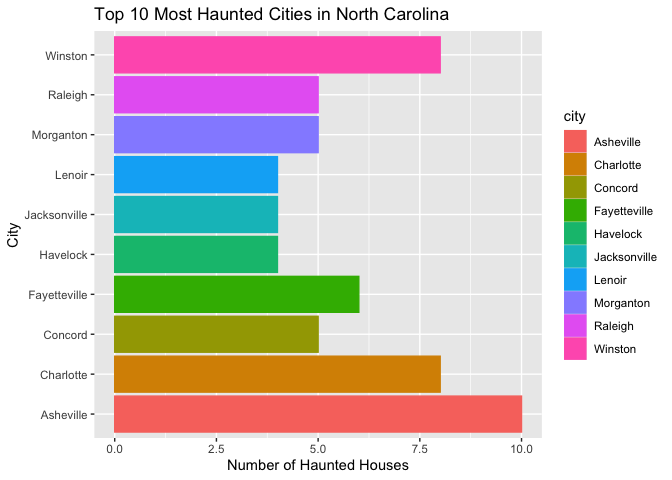
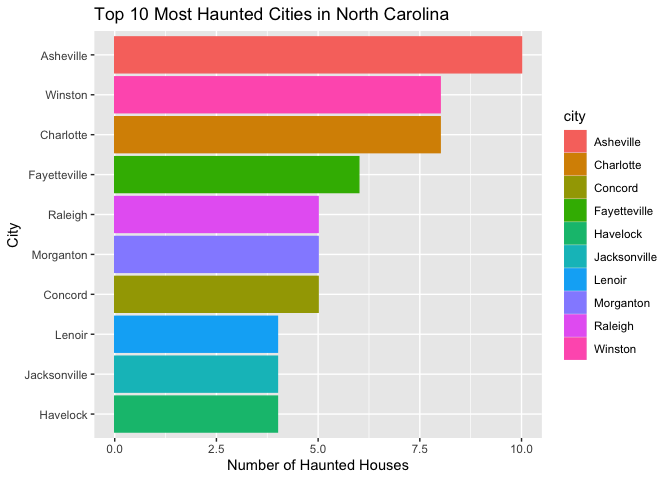
updated

diff --git a/docs/portfolio1.md b/docs/portfolio1.md
@@ -15,6 +15,8 @@ I get the haunted houses dataset from the Tidy Tuesday Github
 My research question in general is to see where are the haunted houses
 in the US!
 
+### Haunted houses in North Caronlina
+
 ``` r
 ##first I want to know where are the haunted houses in North Carolina.
 ##I would filter the dataset into only houses in NC.
@@ -25,6 +27,8 @@ NC_haunted_places <- haunted_places %>%
 Now I know that there are 211 haunted houses in North Caronlina, which
 is a litte scary. Next, I wanted to know how they are located within
 North Caronlina.
+
+### Most
 
 ``` r
 ##After taking a look at the dataset, I want to merge Winston-Salem to Winston because they refer to the same location. 
@@ -59,8 +63,9 @@ print(haunted_counts_NC)
 
 Before looking at the houses location visualization, I merged
 Winston-Salem to Winston. After that, I wanted to check which cities in
-NC has the most or least haunted houses. Asheville appeared to have the
-most
+NC has the most or least haunted houses. According to the dataset,
+Aheville appeared to have the most haunted houses, n = 1, while Lenoir,
+Jacksonville, and Havelock have the least haunted houses, n = 1
 
 ``` r
 ##Next, I want to see how these haunted houses are located within NC.
@@ -91,13 +96,13 @@ top_haunted_cities <- NC_haunted_places %>%
   arrange(desc(num_haunted_houses)) %>%
   slice_head(n = 10)
 
-# Create the bar plot
-ggplot(top_haunted_cities, aes(x = city, y = num_haunted_houses, colour = city, fill = city)) +
+# Create the bar plot for the top ten cities 
+ggplot(top_haunted_cities, aes(x = reorder(city, num_haunted_houses), y = num_haunted_houses, colour = city, fill = city)) +
   geom_bar(stat = "identity") +  
   labs(title = "Top 10 Most Haunted Cities in North Carolina",
        x = "City",
        y = "Number of Haunted Houses") +
-  coord_flip()
+       coord_flip()
 ```
 
 ![](portfolio1_files/figure-gfm/top%205%20citie%20sthat%20has%20the%20most/least%20haunted%20houses%20in%20NC-1.png)<!-- -->
